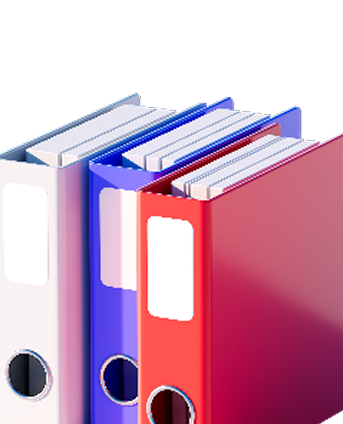
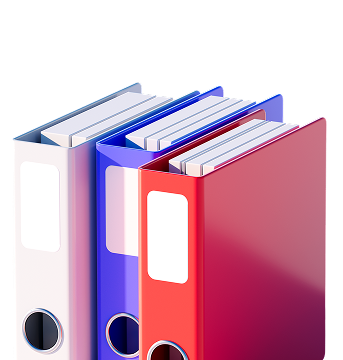
[ADD] b2b_services_insurance_ko

diff --git a/src/scss/partials/maincard.scss b/src/scss/partials/maincard.scss
@@ -400,6 +400,12 @@ h2.maincard__title {
 }
 
 @include min-medium-screen {
+  .maincard__image img {
+    max-width: unset;
+  }
+  .maincard__wrapper {
+    overflow: hidden;
+  }
   .maincard__container {
     min-height: 370px;
   }
@@ -470,6 +476,18 @@ h2.maincard__title {
       min-width: 600px;
     }
   }
+   #mainblock_ko {
+    .maincard__content {
+      max-width: 547px;
+      min-width: 547px;
+    }
+    .maincard__container {
+      padding-bottom: 32px;
+    }
+    .maincard__image img {
+      transform: translateX(-80px);
+    }
+  }
   #mainblock_marketingsegment {
      .maincard__content {
       max-width: 600px;
@@ -506,6 +524,11 @@ h2.maincard__title {
 }
 
 @include medium-screen {
+  #mainblock_ko {
+    .maincard__image img {
+      transform: translateY(-27px);
+    }
+  }
   #mainblock_insurance {
     .maincard__image img {
       max-width: 526px;

diff --git a/src/scss/style.scss b/src/scss/style.scss
@@ -847,7 +847,7 @@ h2 {
   margin: 32px auto;
   border-radius: 24px;
   padding: 50px 50px 32px;
-  box-shadow: 2px 2px 6px 0 #d5deeb;
+      box-shadow: 0 0 16px 0 rgba(0, 85, 255, 0.05), 0 4px 8px 0 rgba(0, 85, 255, 0.1);
   background: #f9fafb;
 }
 .formcols__input {

diff --git a/src/html/views/start.html b/src/html/views/start.html
@@ -39,6 +39,7 @@
       <li><a href="b2b_services_bank_marketing_segmentation.html" target="_blank" rel="noopener noreferrer" class='btn_main'>b2b_services_bank_marketing_segmentation</a></li>
       <li><a href="b2b_services_bank_marketing_diversification.html" target="_blank" rel="noopener noreferrer" class='btn_main'>b2b_services_bank_marketing_diversification</a></li>
       <li><a href="b2b_services_insurance.html" target="_blank" rel="noopener noreferrer" class='btn_main'>b2b_services_ insurance</a></li>
+      <li><a href="b2b_services_ insurance_ko.html" target="_blank" rel="noopener noreferrer" class='btn_main'>b2b_services_insurance_ko</a></li>
     
      
       